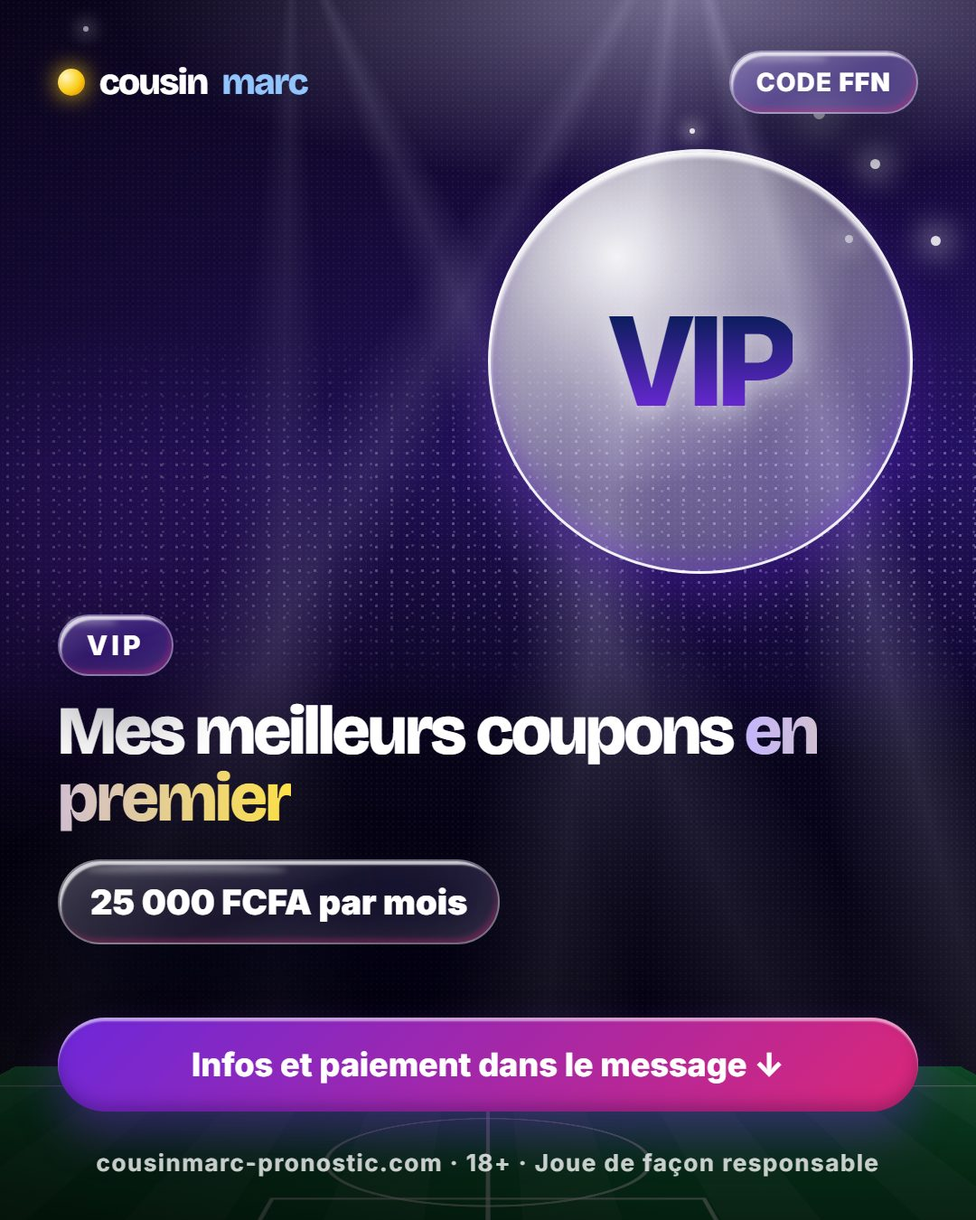
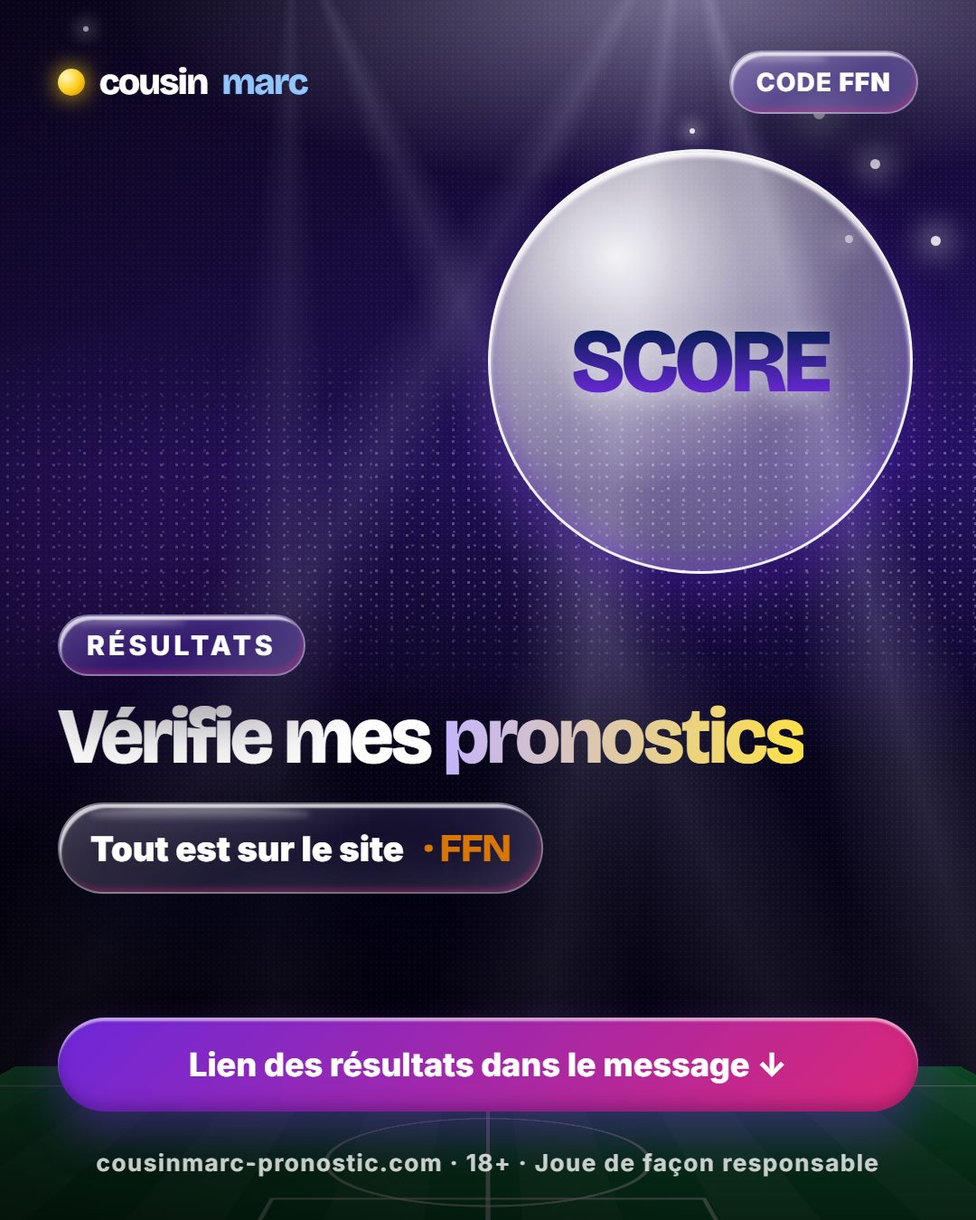
Canal : VIP seulement le dimanche 13h, un sujet par jour les autres jours

Changed region(s): [[0.0611, 0.4978, 0.8556, 0.7778], [0.1833, 0.84, 0.7944, 0.9022], [0.5806, 0.2489, 0.8556, 0.3422]]

diff --git a/worker/src/messages.js b/worker/src/messages.js
@@ -27,7 +27,7 @@ export const TARGETS = [
   "pattern": "^(resultat|résultat|resultats|résultats)$",
   "file": "result-photo.jpg",
   "label": "Résultats",
-  "text": "━━━━━━━━━━━━━━━━━━━━━━━━━━\n🏆 ENCORE UN COUPON GAGNANT !\n━━━━━━━━━━━━━━━━━━━━━━━━━━\n\n✅ Bravo à tous ceux qui ont suivi\n\n📊 Tous les résultats : https://cousinmarc-pronostic.com/resultats.html\n⭐ Grosses cotes et live dans le VIP : https://cousinmarc-pronostic.com/vip.html\n\nLes gains passés ne garantissent pas les gains futurs.\n━━━━━━━━━━━━━━━━━━━━━━━━━━"
+  "text": "━━━━━━━━━━━━━━━━━━━━━━━━━━\n🏆 ENCORE UN COUPON GAGNANT !\n━━━━━━━━━━━━━━━━━━━━━━━━━━\n\n✅ Bravo à tous ceux qui ont suivi\n\n📊 Tous les résultats : https://cousinmarc-pronostic.com/resultats.html\n🎯 Pas encore de compte ? Code promo FFN : https://cousinmarc-pronostic.com\n\nLes gains passés ne garantissent pas les gains futurs.\n━━━━━━━━━━━━━━━━━━━━━━━━━━"
  }
 ];
 export const PROMOS = [
@@ -36,8 +36,8 @@ export const PROMOS = [
   "text": "━━━━━━━━━━━━━━━━━━━━━━━━━━\n🔔 INSCRIS-TOI MAINTENANT\n━━━━━━━━━━━━━━━━━━━━━━━━━━\n\n🎯 1XBET — Code promo : FFN\n\n🌐 https://tinyurl.com/3vptk7a4\n📲 https://tinyurl.com/7vucc2fu\n\n\n🎯 PARIPESA — Code promo : FFN\n\n🌐 https://paripesa.bet/flex4\n📲 https://paripesa.bet/cousinmarc\n\n\n🎯 MELBET — Code promo : FFN\n\n🌐 https://tinyurl.com/48f3ukrb\n📲 https://tinyurl.com/4nsmfukc\n\n🎯 WINWIN — Code promo : FFN\n\n🌐 https://slim.link/FFN\n📲 https://slim.link/FFN_APK\n\n━━━━━━━━━━━━━━━━━━━━━━━━━━\n🎁 CODE PROMO OBLIGATOIRE À L'INSCRIPTION :\n🔥 FFN 🔥\n━━━━━━━━━━━━━━━━━━━━━━━━━━\n📺 Tuto création de compte :\n\nhttps://youtu.be/Z-vnaLR3jYM\n\n━━━━━━━━━━━━━━━━━━━━━━━━━━\n🌐 = site · 📲 = application"
  },
  {
-  "image": "https://raw.githubusercontent.com/fokamjeanmarc2004-cloud/marc-pronostic-api/main/promo/promo-vip.jpg",
-  "text": "━━━━━━━━━━━━━━━━━━━━━━━━━━\n⭐ REJOINS LE VIP COUSIN MARC\n━━━━━━━━━━━━━━━━━━━━━━━━━━\n\n🎯 Côte de 2 VIP tous les jours\n🚀 Grosses cotes plusieurs fois par semaine\n⚡ Pronostics en live pendant les matchs\n💬 Canal privé + questions directes\n\n💳 1 mois 25 000 FCFA · 3 mois 65 000 FCFA · 1 an 240 000 FCFA\n📲 Paiement Orange Money, MTN, Wave ou crypto\n\n👉 https://cousinmarc-pronostic.com/vip.html\n━━━━━━━━━━━━━━━━━━━━━━━━━━\nAucun gain n'est garanti."
+  "image": "https://raw.githubusercontent.com/fokamjeanmarc2004-cloud/marc-pronostic-api/main/promo/promo-tous-les-codes.jpg",
+  "text": "━━━━━━━━━━━━━━━━━━━━━━━━━━\n📊 MES RÉSULTATS, GAGNÉS OU PERDUS\n━━━━━━━━━━━━━━━━━━━━━━━━━━\n\nJe ne cache rien : chaque pronostic du site affiche son résultat après le match ✅ ❌\n\n👉 https://cousinmarc-pronostic.com/resultats.html\n\n🎯 Joue mes pronostics sur 1xBet, Melbet, Paripesa ou WinWin avec le code FFN\n👉 Tous les liens : https://cousinmarc-pronostic.com\n\n━━━━━━━━━━━━━━━━━━━━━━━━━━\n🎁 CODE PROMO OBLIGATOIRE À L'INSCRIPTION :\n🔥 FFN 🔥\n━━━━━━━━━━━━━━━━━━━━━━━━━━"
  },
  {
   "image": "https://raw.githubusercontent.com/fokamjeanmarc2004-cloud/marc-pronostic-api/main/promo/promo-1xbet.jpg",
@@ -68,8 +68,8 @@ export const PROMOS = [
   "text": "━━━━━━━━━━━━━━━━━━━━━━━━━━\n🟠 PARIPESA : MÊME CODE, MÊME BONUS\n━━━━━━━━━━━━━━━━━━━━━━━━━━\n\n🎯 PARIPESA — Code promo : FFN\n🎁 300% sur ton 1er dépôt (jusqu'à 300 000 FCFA)\n\n🌐 https://paripesa.bet/flex4\n📲 https://paripesa.bet/cousinmarc\n\n━━━━━━━━━━━━━━━━━━━━━━━━━━\n🎁 CODE PROMO OBLIGATOIRE À L'INSCRIPTION :\n🔥 FFN 🔥\n━━━━━━━━━━━━━━━━━━━━━━━━━━\n📺 Tuto création de compte :\n\nhttps://youtu.be/Z-vnaLR3jYM\n\n━━━━━━━━━━━━━━━━━━━━━━━━━━\n🌐 = site · 📲 = application"
  },
  {
-  "image": "https://raw.githubusercontent.com/fokamjeanmarc2004-cloud/marc-pronostic-api/main/promo/promo-vip.jpg",
-  "text": "━━━━━━━━━━━━━━━━━━━━━━━━━━\n🚀 LES GROSSES COTES, C'EST DANS LE VIP\n━━━━━━━━━━━━━━━━━━━━━━━━━━\n\nLes cotes à 5, 8, 10 et plus que vous aimez 🔥\nsont partagées en priorité dans le canal VIP,\navec la côte de 2 du jour et le live.\n\n🏆 Mes derniers tickets gagnants : https://cousinmarc-pronostic.com/vip.html#preuves\n\n💳 Dès 25 000 FCFA par mois (moins cher en 3 mois ou 1 an) · Orange Money, MTN, Wave ou crypto\n👉 https://cousinmarc-pronostic.com/vip.html\n━━━━━━━━━━━━━━━━━━━━━━━━━━\nAucun gain n'est garanti."
+  "image": "https://raw.githubusercontent.com/fokamjeanmarc2004-cloud/marc-pronostic-api/main/promo/promo-1xbet.jpg",
+  "text": "━━━━━━━━━━━━━━━━━━━━━━━━━━\n⚽ LA CÔTE DE 2 GRATUITE, CHAQUE JOUR\n━━━━━━━━━━━━━━━━━━━━━━━━━━\n\nChaque jour, un coupon autour de cote 2 publié ici et sur le site 👇\n\n🎯 Côte de 2 : https://cousinmarc-pronostic.com/cote-de-2.html\n🎲 Total pair / impair : https://cousinmarc-pronostic.com/total-pair-impair.html\n\n🔔 Active les notifications du canal pour ne rien rater.\n\n🎯 1XBET — Code promo : FFN\n🌐 https://tinyurl.com/3vptk7a4\n📲 https://tinyurl.com/7vucc2fu\n\n━━━━━━━━━━━━━━━━━━━━━━━━━━\n🎁 CODE PROMO OBLIGATOIRE À L'INSCRIPTION :\n🔥 FFN 🔥\n━━━━━━━━━━━━━━━━━━━━━━━━━━"
  },
  {
   "image": "https://raw.githubusercontent.com/fokamjeanmarc2004-cloud/marc-pronostic-api/main/promo/promo-winwin.jpg",
@@ -89,12 +89,62 @@ export const PROMOS = [
  }
 ];
 
-// Rappel VIP de 13h (un texte different chaque jour, image neuve du jour promo/visuels/AAAA-MM/JJ-vip.jpg)
+// Message VIP du dimanche 13h (un texte different chaque dimanche, image neuve du jour promo/visuels/AAAA-MM/JJ-vip.jpg)
 export const VIP_RAPPELS = [
  "━━━━━━━━━━━━━━━━━━━━━━━━━━\n⭐ RAPPEL : REJOINS LE VIP\n━━━━━━━━━━━━━━━━━━━━━━━━━━\n\nLe ticket sur l'image est passé dans le VIP 👆\n\n🎯 Côte de 2 VIP tous les jours\n🚀 Grosses cotes plusieurs fois par semaine\n⚡ Pronostics en live pendant les matchs\n\n💳 1 mois 25 000 FCFA · 3 mois 65 000 FCFA · 1 an 240 000 FCFA\n📲 Orange Money, MTN, Wave ou crypto\n\n👉 https://cousinmarc-pronostic.com/vip.html\n━━━━━━━━━━━━━━━━━━━━━━━━━━\nAucun gain n'est garanti.",
  "━━━━━━━━━━━━━━━━━━━━━━━━━━\n🔥 LES MEILLEURS COUPONS SONT DANS LE VIP\n━━━━━━━━━━━━━━━━━━━━━━━━━━\n\nDans le canal gratuit, tu as la côte de 2.\nDans le VIP, tu as en plus mes grosses cotes, le live et mes conseils en direct.\n\n🏆 Mes tickets gagnants : https://cousinmarc-pronostic.com/vip.html#preuves\n\n💳 Dès 25 000 FCFA par mois (moins cher en 3 mois ou 1 an) · Orange Money, MTN, Wave ou crypto\n👉 https://cousinmarc-pronostic.com/vip.html\n━━━━━━━━━━━━━━━━━━━━━━━━━━\nAucun gain n'est garanti.",
  "━━━━━━━━━━━━━━━━━━━━━━━━━━\n💎 POURQUOI REJOINDRE LE VIP ?\n━━━━━━━━━━━━━━━━━━━━━━━━━━\n\n✅ Mes coupons avant tout le monde\n✅ Une côte de 2 VIP chaque jour\n✅ Des grosses cotes (5, 8, 10 et plus)\n✅ Tu me poses tes questions directement\n\n💳 1 mois 25 000 FCFA · 3 mois 65 000 FCFA · 1 an 240 000 FCFA\n👉 https://cousinmarc-pronostic.com/vip.html\n━━━━━━━━━━━━━━━━━━━━━━━━━━\nAucun gain n'est garanti.",
- "━━━━━━━━━━━━━━━━━━━━━━━━━━\n⏰ LE VIP, C'EST AUJOURD'HUI\n━━━━━━━━━━━━━━━━━━━━━━━━━━\n\nChaque jour sans le VIP, ce sont des coupons que tu ne vois pas.\nRegarde le ticket sur l'image, puis rejoins-nous 👇\n\n💳 Dès 25 000 FCFA par mois (moins cher en 3 mois ou 1 an)\n📲 Paiement Orange Money, MTN, Wave ou crypto\n\n👉 https://cousinmarc-pronostic.com/vip.html\n━━━━━━━━━━━━━━━━━━━━━━━━━━\nAucun gain n'est garanti.",
+ "━━━━━━━━━━━━━━━━━━━━━━━━━━\n🗓 NOUVELLE SEMAINE : REJOINS LE VIP\n━━━━━━━━━━━━━━━━━━━━━━━━━━\n\nUne nouvelle semaine de coupons commence demain.\nRegarde le ticket sur l'image, puis rejoins-nous 👇\n\n💳 Dès 25 000 FCFA par mois (moins cher en 3 mois ou 1 an)\n📲 Paiement Orange Money, MTN, Wave ou crypto\n\n👉 https://cousinmarc-pronostic.com/vip.html\n━━━━━━━━━━━━━━━━━━━━━━━━━━\nAucun gain n'est garanti.",
  "━━━━━━━━━━━━━━━━━━━━━━━━━━\n🎯 TU VEUX JOUER COMME MOI ?\n━━━━━━━━━━━━━━━━━━━━━━━━━━\n\nDans le VIP, je partage les coupons que je joue moi-même, avec la cote et l'heure.\nTu n'as plus qu'à copier.\n\n🏆 Mes derniers tickets : https://cousinmarc-pronostic.com/vip.html#preuves\n💳 Dès 25 000 FCFA par mois (moins cher en 3 mois ou 1 an)\n👉 https://cousinmarc-pronostic.com/vip.html\n━━━━━━━━━━━━━━━━━━━━━━━━━━\nAucun gain n'est garanti."
 ];
 export const VIP_IMAGE = "https://raw.githubusercontent.com/fokamjeanmarc2004-cloud/marc-pronostic-api/main/promo/promo-vip.jpg";
+
+// 13h du lundi au samedi : un sujet par jour (index = jour : 1 lundi ... 6 samedi ; jeudi = MIDI_BK)
+export const MIDI = [
+ null,
+ {
+  "image": "https://raw.githubusercontent.com/fokamjeanmarc2004-cloud/marc-pronostic-api/main/promo/promo-tous-les-codes.jpg",
+  "text": "━━━━━━━━━━━━━━━━━━━━━━━━━━\n📊 BILAN DU WEEK-END\n━━━━━━━━━━━━━━━━━━━━━━━━━━\n\nLe week-end de foot est terminé : tous mes pronostics sont affichés sur le site avec leur résultat, gagné ou perdu ✅ ❌\n\n👉 https://cousinmarc-pronostic.com/resultats.html\n\nNouvelle semaine, nouveaux coupons : la côte de 2 continue chaque jour ici 💪\n\n🎯 Pas encore de compte ? Inscris-toi avec le code FFN :\n👉 https://cousinmarc-pronostic.com\n\n━━━━━━━━━━━━━━━━━━━━━━━━━━\n🎁 CODE PROMO OBLIGATOIRE À L'INSCRIPTION :\n🔥 FFN 🔥\n━━━━━━━━━━━━━━━━━━━━━━━━━━"
+ },
+ {
+  "image": "https://raw.githubusercontent.com/fokamjeanmarc2004-cloud/marc-pronostic-api/main/promo/promo-tous-les-codes.jpg",
+  "text": "━━━━━━━━━━━━━━━━━━━━━━━━━━\n⚽ LES GROS MATCHS DE LA SEMAINE\n━━━━━━━━━━━━━━━━━━━━━━━━━━\n\nLigue des champions, Ligue Europa, championnats : j'analyse les matchs les plus attendus.\nForme des équipes, mon pronostic et la cote, tout est sur le site 👇\n\n👉 https://cousinmarc-pronostic.com/pronostics.html\n\n🎯 Joue-les sur 1xBet, Melbet, Paripesa ou WinWin avec le code FFN.\n\n━━━━━━━━━━━━━━━━━━━━━━━━━━\n🎁 CODE PROMO OBLIGATOIRE À L'INSCRIPTION :\n🔥 FFN 🔥\n━━━━━━━━━━━━━━━━━━━━━━━━━━"
+ },
+ {
+  "image": "https://raw.githubusercontent.com/fokamjeanmarc2004-cloud/marc-pronostic-api/main/promo/promo-inscris-toi.jpg",
+  "text": "━━━━━━━━━━━━━━━━━━━━━━━━━━\n📲 T'INSCRIRE AVEC LE CODE FFN EN 4 ÉTAPES\n━━━━━━━━━━━━━━━━━━━━━━━━━━\n\n1⃣ Ouvre le lien du bookmaker (site ou application)\n2⃣ Choisis ton pays et ta monnaie (FCFA)\n3⃣ Dans la case « code promo », écris FFN\n4⃣ Fais ton 1er dépôt par Mobile Money : bonus jusqu'à 300%\n\n🎯 1XBET\n🌐 https://tinyurl.com/3vptk7a4\n📲 https://tinyurl.com/7vucc2fu\n\n🎯 MELBET\n🌐 https://tinyurl.com/48f3ukrb\n📲 https://tinyurl.com/4nsmfukc\n\n⚠ Le code s'entre UNE seule fois, à l'inscription.\n\n📺 Tuto création de compte :\n\nhttps://youtu.be/Z-vnaLR3jYM\n\n━━━━━━━━━━━━━━━━━━━━━━━━━━\n🎁 CODE PROMO OBLIGATOIRE À L'INSCRIPTION :\n🔥 FFN 🔥\n━━━━━━━━━━━━━━━━━━━━━━━━━━"
+ },
+ null,
+ {
+  "image": "https://raw.githubusercontent.com/fokamjeanmarc2004-cloud/marc-pronostic-api/main/promo/promo-tous-les-codes.jpg",
+  "text": "━━━━━━━━━━━━━━━━━━━━━━━━━━\n🔥 PROGRAMME DU WEEK-END\n━━━━━━━━━━━━━━━━━━━━━━━━━━\n\nPremier League, Liga, Serie A, Ligue 1, Bundesliga : les matchs à ne pas rater ce week-end.\nMes analyses et mes pronostics sont sur le site 👇\n\n👉 https://cousinmarc-pronostic.com/pronostics.html\n⚽ Côte de 2 du jour : https://cousinmarc-pronostic.com/cote-de-2.html\n\n🎯 Prépare ton compte avant le week-end : code promo FFN\n👉 https://cousinmarc-pronostic.com\n\n━━━━━━━━━━━━━━━━━━━━━━━━━━\n🎁 CODE PROMO OBLIGATOIRE À L'INSCRIPTION :\n🔥 FFN 🔥\n━━━━━━━━━━━━━━━━━━━━━━━━━━"
+ },
+ {
+  "image": "https://raw.githubusercontent.com/fokamjeanmarc2004-cloud/marc-pronostic-api/main/promo/promo-tous-les-codes.jpg",
+  "text": "━━━━━━━━━━━━━━━━━━━━━━━━━━\n📢 NE RATE AUCUN DE MES COUPONS\n━━━━━━━━━━━━━━━━━━━━━━━━━━\n\nAbonne-toi partout pour recevoir mes pronostics dès qu'ils sortent 👇\n\n━━━━━━━━━━━━━━━━━━━━━━━━━━\n📲 SUIS-MOI PARTOUT\n━━━━━━━━━━━━━━━━━━━━━━━━━━\n✈ Telegram : https://t.me/marc_prono\n💬 WhatsApp : https://whatsapp.com/channel/0029VbBBh2u9xVJnAVMu833h\n▶ YouTube : https://youtube.com/@prossport\n🌐 Site : https://cousinmarc-pronostic.com\n\n👥 Partage le canal à tes amis parieurs !\n\n━━━━━━━━━━━━━━━━━━━━━━━━━━\n🎁 CODE PROMO OBLIGATOIRE À L'INSCRIPTION :\n🔥 FFN 🔥\n━━━━━━━━━━━━━━━━━━━━━━━━━━"
+ }
+];
+
+// Jeudi 13h : bookmaker de la semaine (tourne chaque semaine)
+export const MIDI_BK = [
+ {
+  "image": "https://raw.githubusercontent.com/fokamjeanmarc2004-cloud/marc-pronostic-api/main/promo/promo-1xbet.jpg",
+  "text": "━━━━━━━━━━━━━━━━━━━━━━━━━━\n🔵 BOOKMAKER DE LA SEMAINE : 1XBET\n━━━━━━━━━━━━━━━━━━━━━━━━━━\n\n🎯 1XBET — Code promo : FFN\n🎁 300% sur ton 1er dépôt (jusqu'à 300 000 FCFA)\n💳 Dépôt et retrait par Mobile Money\n\n🌐 https://tinyurl.com/3vptk7a4\n📲 https://tinyurl.com/7vucc2fu\n\n👉 Guide complet : https://cousinmarc-pronostic.com\n\n📺 Tuto création de compte :\n\nhttps://youtu.be/Z-vnaLR3jYM\n\n━━━━━━━━━━━━━━━━━━━━━━━━━━\n🎁 CODE PROMO OBLIGATOIRE À L'INSCRIPTION :\n🔥 FFN 🔥\n━━━━━━━━━━━━━━━━━━━━━━━━━━"
+ },
+ {
+  "image": "https://raw.githubusercontent.com/fokamjeanmarc2004-cloud/marc-pronostic-api/main/promo/promo-melbet.jpg",
+  "text": "━━━━━━━━━━━━━━━━━━━━━━━━━━\n🟡 BOOKMAKER DE LA SEMAINE : MELBET\n━━━━━━━━━━━━━━━━━━━━━━━━━━\n\n🎯 MELBET — Code promo : FFN\n🎁 300% sur ton 1er dépôt (jusqu'à 300 000 FCFA)\n💳 Dépôt et retrait par Mobile Money\n\n🌐 https://tinyurl.com/48f3ukrb\n📲 https://tinyurl.com/4nsmfukc\n\n👉 Guide complet : https://cousinmarc-pronostic.com\n\n📺 Tuto création de compte :\n\nhttps://youtu.be/Z-vnaLR3jYM\n\n━━━━━━━━━━━━━━━━━━━━━━━━━━\n🎁 CODE PROMO OBLIGATOIRE À L'INSCRIPTION :\n🔥 FFN 🔥\n━━━━━━━━━━━━━━━━━━━━━━━━━━"
+ },
+ {
+  "image": "https://raw.githubusercontent.com/fokamjeanmarc2004-cloud/marc-pronostic-api/main/promo/promo-paripesa.jpg",
+  "text": "━━━━━━━━━━━━━━━━━━━━━━━━━━\n🟠 BOOKMAKER DE LA SEMAINE : PARIPESA\n━━━━━━━━━━━━━━━━━━━━━━━━━━\n\n🎯 PARIPESA — Code promo : FFN\n🎁 300% sur ton 1er dépôt (jusqu'à 300 000 FCFA)\n💳 Dépôt et retrait par Mobile Money\n\n🌐 https://paripesa.bet/flex4\n📲 https://paripesa.bet/cousinmarc\n\n👉 Guide complet : https://cousinmarc-pronostic.com\n\n📺 Tuto création de compte :\n\nhttps://youtu.be/Z-vnaLR3jYM\n\n━━━━━━━━━━━━━━━━━━━━━━━━━━\n🎁 CODE PROMO OBLIGATOIRE À L'INSCRIPTION :\n🔥 FFN 🔥\n━━━━━━━━━━━━━━━━━━━━━━━━━━"
+ },
+ {
+  "image": "https://raw.githubusercontent.com/fokamjeanmarc2004-cloud/marc-pronostic-api/main/promo/promo-winwin.jpg",
+  "text": "━━━━━━━━━━━━━━━━━━━━━━━━━━\n🟢 BOOKMAKER DE LA SEMAINE : WINWIN\n━━━━━━━━━━━━━━━━━━━━━━━━━━\n\n🎯 WINWIN — Code promo : FFN\n🎁 300% sur ton 1er dépôt (jusqu'à 300 000 FCFA)\n💳 Dépôt et retrait par Mobile Money\n\n🌐 https://slim.link/FFN\n📲 https://slim.link/FFN_APK\n\n👉 Guide complet : https://cousinmarc-pronostic.com\n\n📺 Tuto création de compte :\n\nhttps://youtu.be/Z-vnaLR3jYM\n\n━━━━━━━━━━━━━━━━━━━━━━━━━━\n🎁 CODE PROMO OBLIGATOIRE À L'INSCRIPTION :\n🔥 FFN 🔥\n━━━━━━━━━━━━━━━━━━━━━━━━━━"
+ },
+ {
+  "image": "https://raw.githubusercontent.com/fokamjeanmarc2004-cloud/marc-pronostic-api/main/promo/promo-megapari-goldpari.jpg",
+  "text": "━━━━━━━━━━━━━━━━━━━━━━━━━━\n💎 BOOKMAKER DE LA SEMAINE : GOLDPARI\n━━━━━━━━━━━━━━━━━━━━━━━━━━\n\n🎯 GOLDPARI — Code promo : FFN\n🎁 300% sur ton 1er dépôt (jusqu'à 300 000 FCFA)\n💳 Dépôt et retrait par Mobile Money\n\n🌐 https://slim.link/yHtzWdS\n📲 https://slim.link/5gRZnVB\n\n👉 Guide complet : https://cousinmarc-pronostic.com\n\n📺 Tuto création de compte :\n\nhttps://youtu.be/Z-vnaLR3jYM\n\n━━━━━━━━━━━━━━━━━━━━━━━━━━\n🎁 CODE PROMO OBLIGATOIRE À L'INSCRIPTION :\n🔥 FFN 🔥\n━━━━━━━━━━━━━━━━━━━━━━━━━━"
+ }
+];

diff --git a/worker/src/index.js b/worker/src/index.js
@@ -16,7 +16,7 @@
  * Variable facultative :
  *   TELEGRAM_CHANNEL_ID  ton canal (par defaut @marc_prono)
  */
-import { RESP, FOOTER, HELP as HELP_TXT, COUPON_DU_JOUR, TARGETS, PROMOS, VIP_RAPPELS, VIP_IMAGE } from "./messages.js";
+import { RESP, FOOTER, HELP as HELP_TXT, COUPON_DU_JOUR, TARGETS, PROMOS, VIP_RAPPELS, VIP_IMAGE, MIDI, MIDI_BK } from "./messages.js";
 
 const REPO = "fokamjeanmarc2004-cloud/marc-pronostic-api";
 const SITE = "https://cousinmarc-pronostic.com";
@@ -423,10 +423,33 @@ async function sendPromo(env, index, date = new Date()) {
   return `message ${index + 1} publié (texte)`;
 }
 
-// ---------------------------------------------------------------- Rappel VIP de 13h (Cameroun)
+// ---------------------------------------------------------------- 13h (Cameroun) : VIP le dimanche seulement, un sujet par jour sinon
+function weekOf(date) {
+  return Math.floor((Date.UTC(date.getUTCFullYear(), date.getUTCMonth(), date.getUTCDate()) - Date.UTC(2026, 0, 1)) / 86400000 / 7);
+}
+
+async function sendMidi(env, date = new Date()) {
+  const wd = date.getUTCDay();
+  if (wd === 0) return sendVip(env, date);
+  const m = wd === 4 ? MIDI_BK[weekOf(date) % MIDI_BK.length] : MIDI[wd];
+  const text = m.text + RESP;
+  const d = date.toISOString();
+  const fresh = `${VISUELS}/${d.slice(0, 7)}/${d.slice(8, 10)}-midi.jpg`;
+  let ok = false;
+  try { ok = (await fetch(fresh, { method: "HEAD" })).ok; } catch (e) { console.log("visuel midi", e.message); }
+  for (const img of [ok ? fresh : null, m.image]) {
+    if (!img) continue;
+    try {
+      await tg(env, "sendPhoto", { chat_id: channelOf(env), photo: img, caption: text });
+      return `message de 13h publié (${img === fresh ? "image neuve du jour" : "image"})`;
+    } catch (e) { console.log("image midi", e.message); }
+  }
+  await tg(env, "sendMessage", { chat_id: channelOf(env), text });
+  return "message de 13h publié (texte)";
+}
+
 async function sendVip(env, date = new Date()) {
-  const days = Math.floor((Date.UTC(date.getUTCFullYear(), date.getUTCMonth(), date.getUTCDate()) - Date.UTC(2026, 0, 1)) / 86400000);
-  const text = VIP_RAPPELS[days % VIP_RAPPELS.length] + RESP;
+  const text = VIP_RAPPELS[weekOf(date) % VIP_RAPPELS.length] + RESP;
   const d = date.toISOString();
   const fresh = `${VISUELS}/${d.slice(0, 7)}/${d.slice(8, 10)}-vip.jpg`;
   let ok = false;
@@ -483,6 +506,12 @@ export default {
       return new Response(`✅ ${out} dans ${channelOf(env)}`, { headers: { "content-type": "text/plain; charset=utf-8" } });
     }
 
+    if (url.pathname === "/midi") {
+      if (!keyOk) return new Response(keyHelp(), { status: 403, headers: { "content-type": "text/plain; charset=utf-8" } });
+      const out = await sendMidi(env);
+      return new Response(`✅ ${out} dans ${channelOf(env)}`, { headers: { "content-type": "text/plain; charset=utf-8" } });
+    }
+
     if (url.pathname === "/vip") {
       if (!keyOk) return new Response(keyHelp(), { status: 403, headers: { "content-type": "text/plain; charset=utf-8" } });
       const out = await sendVip(env);
@@ -495,8 +524,8 @@ export default {
   // 5h00 et 20h00 UTC = 6h00 et 21h00 au Cameroun
   async scheduled(event, env, ctx) {
     const when = new Date(event.scheduledTime);
-    // 12h00 UTC = 13h00 au Cameroun : rappel VIP ; sinon promo de 6h ou 21h
-    if (when.getUTCHours() === 12) ctx.waitUntil(sendVip(env, when).then(console.log));
+    // 12h00 UTC = 13h00 au Cameroun : VIP le dimanche, sujet du jour sinon ; sinon promo de 6h ou 21h
+    if (when.getUTCHours() === 12) ctx.waitUntil(sendMidi(env, when).then(console.log));
     else ctx.waitUntil(sendPromo(env, pickIndex(when), when).then(console.log));
   },
 };

diff --git a/scripts/visuels.py b/scripts/visuels.py
@@ -27,10 +27,10 @@ TOPICS = [
  {"k": "Inscription", "h": ["Inscris-toi avec le code FFN", "Ton compte en 2 minutes", "Un seul code pour 4 bookmakers", "Commence aujourd'hui avec FFN"],
   "sub": "1xBet · Paripesa · Melbet · WinWin", "code": "FFN", "big": "300%", "line": B300, "line2": B300b,
   "logos": ["1xbet", "paripesa", "melbet", "winwin"], "cta": "Liens et tuto dans le message"},
- {"k": "VIP", "h": ["Rejoins le VIP Cousin Marc", "Le VIP, c'est ici", "Passe au niveau supérieur", "Mes meilleurs coupons en premier"],
-  "sub": "Côte de 2 VIP chaque jour · Grosses cotes · Live", "big": "VIP", "line": "25 000 FCFA par mois", "line2": "Orange Money · MTN · Wave · crypto",
-  "rows": [("Côte de 2 VIP", "tous les jours"), ("Grosses cotes", "plusieurs fois par semaine"), ("Pronostics en live", "pendant les matchs"), ("Canal privé", "questions directes")],
-  "cta": "Infos et paiement dans le message", "vip": True},
+ {"k": "Résultats", "h": ["Mes résultats, gagnés ou perdus", "Je ne cache rien", "Tous mes résultats en ligne", "Vérifie mes pronostics"],
+  "sub": "Chaque pronostic affiche son résultat après le match", "code": "FFN", "big": "SCORE", "line": "Tout est sur le site", "line2": "cousinmarc-pronostic.com",
+  "rows": [("Mon pronostic", "publié avant le match"), ("Le score final", "ajouté après le match"), ("Gagné ou perdu", "affiché pour chaque match")],
+  "cta": "Lien des résultats dans le message"},
  {"k": "1xBet", "h": ["Pas encore de compte 1xBet ?", "1xBet : ton bonus t'attend", "Ouvre ton compte 1xBet", "1xBet avec le code FFN"],
   "sub": "Dépôt et retrait par Mobile Money", "code": "FFN", "big": "300%", "line": B300, "line2": B300b, "logos": ["1xbet"], "cta": "Lien d'inscription dans le message"},
  {"k": "Comparateur", "h": ["Quel bookmaker choisir ?", "Ton top 3 en 10 secondes", "Le bon bookmaker pour ton pays", "Ne choisis plus au hasard"],
@@ -48,9 +48,10 @@ TOPICS = [
   "cta": "Lien de l'aide dans le message"},
  {"k": "Paripesa", "h": ["Paripesa : même code, même bonus", "Inscris-toi sur Paripesa", "Paripesa avec le code FFN", "Ton compte Paripesa en 2 minutes"],
   "sub": "Site et application", "code": "FFN", "big": "300%", "line": B300, "line2": B300b, "logos": ["paripesa"], "cta": "Lien d'inscription dans le message"},
- {"k": "VIP", "h": ["Les grosses cotes, c'est dans le VIP", "Cotes à 5, 8, 10 et plus", "Les gros tickets en priorité", "Vise plus haut avec le VIP"],
-  "sub": "Côte de 2 du jour + live + grosses cotes", "big": "x10", "line": "25 000 FCFA par mois", "line2": "Mes tickets gagnants sur le site",
-  "rows": [("Grosses cotes", "partagées en priorité"), ("Côte de 2", "chaque jour"), ("Live", "pendant les matchs")], "cta": "Infos VIP dans le message", "vip": True},
+ {"k": "Côte de 2", "h": ["La côte de 2 gratuite chaque jour", "Un coupon cote 2 par jour", "Ta côte de 2 du jour", "Active les notifications"],
+  "sub": "Ici dans le canal et sur le site", "code": "FFN", "big": "2.00", "line": "Un coupon chaque jour", "line2": "Côte de 2 · Total pair / impair",
+  "logos": ["1xbet"], "rows": [("Côte de 2", "un coupon chaque jour"), ("Total pair / impair", "sur le site"), ("Notifications", "active-les pour ne rien rater")],
+  "cta": "Liens dans le message"},
  {"k": "WinWin", "h": ["WinWin : inscris-toi avec FFN", "Ton bonus WinWin t'attend", "WinWin avec le code FFN", "Ouvre ton compte WinWin"],
   "sub": "Android et iPhone", "code": "FFN", "big": "300%", "line": B300, "line2": B300b, "logos": ["winwin"], "cta": "Liens Android et iPhone dans le message"},
  {"k": "Megapari · GoldPari", "h": ["2 autres bookmakers avec FFN", "Megapari et GoldPari", "Encore plus de choix avec FFN", "Même code, 2 bookmakers"],
@@ -278,6 +279,37 @@ VIP_T = {"k": "Canal VIP", "cta": "Rejoins le VIP : infos dans le message", "vip
          "rows": [("Côte de 2 VIP", "tous les jours"), ("Grosses cotes", "plusieurs fois par semaine"), ("Pronostics en live", "pendant les matchs"), ("Canal privé", "questions directes")]}
 VIP_LAYOUTS = ["vip-preuve", "vip-preuve-g", "vip-liste"]
 
+# ------------------------------------------------------------------ 13h du lundi au samedi (meme ordre que MIDI / MIDI_BK dans worker/src/messages.js)
+MIDI_T = {
+ 0: {"k": "Bilan du week-end", "h": ["Le bilan du week-end", "Mes résultats du week-end", "Week-end terminé : le bilan", "Gagné ou perdu : tout est affiché"],
+     "sub": "Tous mes pronostics avec leur résultat", "code": "FFN", "big": "BILAN", "line": "Résultats sur le site", "line2": "Nouvelle semaine, nouveaux coupons",
+     "rows": [("Mes pronostics", "du week-end"), ("Le score final", "pour chaque match"), ("Gagné ou perdu", "affiché sur le site")]},
+ 1: {"k": "Matchs de la semaine", "h": ["Les gros matchs de la semaine", "Les affiches à ne pas rater", "Mes analyses de la semaine", "Le programme de la semaine"],
+     "sub": "Ligue des champions · Europa · championnats", "code": "FFN", "big": "1X2", "line": "Mes analyses sur le site", "line2": "Forme · pronostic · cote",
+     "rows": [("Forme des équipes", "les chiffres qui comptent"), ("Mon pronostic", "et la cote"), ("Le résultat", "affiché après le match")]},
+ 2: {"k": "Tuto inscription", "h": ["T'inscrire avec FFN en 4 étapes", "Ton compte en 4 étapes", "Le bon code : FFN", "Inscris-toi sans erreur"],
+     "sub": "1xBet · Melbet · Paripesa · WinWin", "code": "FFN", "big": "4 étapes", "line": B300, "line2": B300b, "logos": ["1xbet", "melbet", "paripesa", "winwin"],
+     "rows": [("Ouvre le lien", "site ou application"), ("Choisis ton pays", "et la monnaie FCFA"), ("Écris FFN", "dans la case code promo"), ("1er dépôt", "bonus jusqu'à 300%")]},
+ 4: {"k": "Programme du week-end", "h": ["Le programme du week-end", "Les matchs du week-end", "Prépare ton week-end", "Mes pronostics du week-end"],
+     "sub": "Premier League · Liga · Serie A · Ligue 1 · Bundesliga", "code": "FFN", "big": "WEEK-END", "line": "Mes pronostics sur le site", "line2": "Côte de 2 chaque jour",
+     "rows": [("Les gros matchs", "du samedi et du dimanche"), ("Mes analyses", "sur le site"), ("Ton compte", "prêt avec le code FFN")]},
+ 5: {"k": "Suis-moi partout", "h": ["Ne rate aucun de mes coupons", "Suis-moi partout", "Abonne-toi partout", "Partage le canal"],
+     "sub": "Telegram · WhatsApp · YouTube · site", "code": "FFN", "big": "4 canaux", "line": "Mes coupons dès qu'ils sortent", "line2": "cousinmarc-pronostic.com",
+     "rows": [("Telegram", "t.me/marc_prono"), ("WhatsApp", "ma chaîne WhatsApp"), ("YouTube", "@prossport"), ("Site", "cousinmarc-pronostic.com")]},
+}
+MIDI_BK = [("1xBet", ["1xbet"]), ("Melbet", ["melbet"]), ("Paripesa", ["paripesa"]), ("WinWin", ["winwin"]), ("GoldPari", ["goldpari"])]
+MIDI_LAYOUTS = ["liste", "hero", "ticket", "liste", "bulle"]
+
+def midi_topic(day):
+    week = (day - datetime.date(2026, 1, 1)).days // 7
+    if day.weekday() == 3:
+        name, logos = MIDI_BK[week % len(MIDI_BK)]
+        t = {"k": "Bookmaker de la semaine", "h": [f"{name} : bookmaker de la semaine", f"Cette semaine : {name}", f"{name} avec le code FFN", f"Ouvre ton compte {name}"],
+             "sub": "Dépôt et retrait par Mobile Money", "code": "FFN", "big": "300%", "line": B300, "line2": B300b, "logos": logos}
+    else:
+        t = MIDI_T[day.weekday()]
+    return dict(t, cta=t.get("cta", "Tous les liens dans le message")), week
+
 def _clean(t):
     return re.sub(r"^[^\w(]+", "", t).strip()
 
@@ -368,8 +400,14 @@ def plan_month(year, month):
             pal = th["pal"][(k * 2 + ti) % len(th["pal"])]
             headline = t["h"][(k + k // len(LAYOUTS) + year + month) % len(t["h"])]
             jobs.append((day, name, t, th, pal, layout, headline, f"{day}-{name}"))
-        if PREUVES:
+        if day.weekday() != 6:
+            t, week = midi_topic(day)
             n = (day - datetime.date(2026, 1, 1)).days
+            layout = MIDI_LAYOUTS[(week + day.weekday()) % len(MIDI_LAYOUTS)]
+            if layout == "bulle" and not t.get("logos"): layout = "hero"
+            jobs.append((day, "midi", t, th, th["pal"][(n + 1) % len(th["pal"])], layout, t["h"][(week + month) % len(t["h"])], f"{day}-midi"))
+        elif PREUVES:
+            n = (day - datetime.date(2026, 1, 1)).days // 7
             tv = dict(VIP_T, proof=PREUVES[(n * 5) % len(PREUVES)])
             jobs.append((day, "vip", tv, th, th["pal"][(n + 3) % len(th["pal"])], VIP_LAYOUTS[n % len(VIP_LAYOUTS)],
                          VIP_H[(n + n // len(VIP_H)) % len(VIP_H)], f"{day}-vip"))
